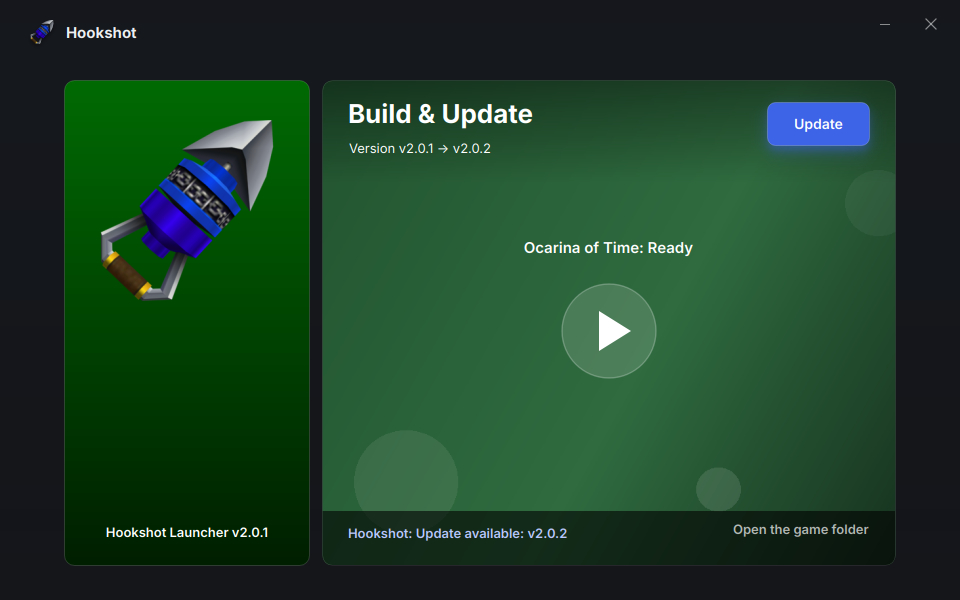
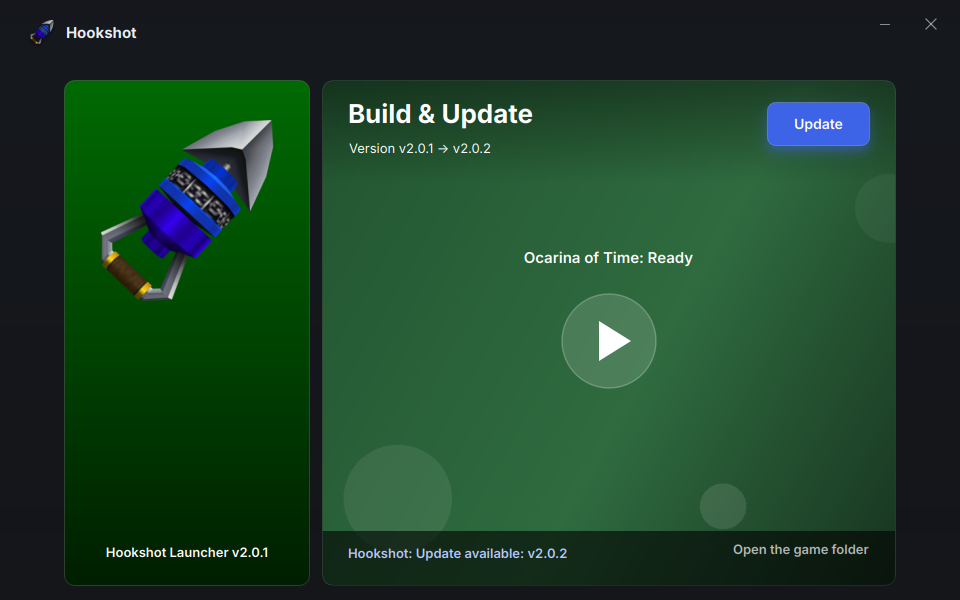
fix(builder): the launch page takes the whole width back, and fresh screenshots of the merged builder
The chrome shrinks the body to make room for its rail; the launch page draws a rail of its own, so inside the shrunk body it
was squeezed and the status line clipped at "Update available: v". show_page now gives the body its full width whenever the
chrome stands down. Screenshots of every page, re-rendered from the merged tree; the Linux launcher ones are live runs of the
merged Tk builder with its own Python.

diff --git a/builder/py/hookshot_builder/window.py b/builder/py/hookshot_builder/window.py
@@ -683,6 +683,7 @@ class Window(QWidget):
                                      "Hookshot Builder")
 
         body = QWidget(self.main)
+        self.body_frame = body
         body.setGeometry(20 + 240 + 16, 64 + 16, 960 - (20 + 240 + 16) - 20, 600 - (64 + 16) - 14)   # (its last 46px ride the strip)
         self.pages = QStackedLayout(body)
         self.files_page = self._files_page()
@@ -974,9 +975,13 @@ class Window(QWidget):
 
     def show_page(self, page):
         self.pages.setCurrentWidget(page)
-        chrome_on = page is not self.launch_page   # (the launch page draws its own rail and strip, as the mockup draws them)
-        self.chrome_strip.setVisible(chrome_on)
+        chrome_on = page is not self.launch_page   # (the launch page draws its own rail and strip, as the mockup draws them: for
+        self.chrome_strip.setVisible(chrome_on)    #  it the body takes the whole width back, or the page would squeeze inside)
         self.chrome_rail.setVisible(chrome_on)
+        if chrome_on:
+            self.body_frame.setGeometry(20 + 240 + 16, 80, 960 - (20 + 240 + 16) - 20, 600 - 80 - 14)
+        else:
+            self.body_frame.setGeometry(64, 80, 960 - 128, 600 - 80 - 14)
 
     def set_step(self, on):
         self.step_pill.set(on)

diff --git a/builder/linux/hookshot_builder.py b/builder/linux/hookshot_builder.py
@@ -890,9 +890,15 @@ class Builder(tk.Tk):
         rail_w, h = px(250), px(560)
         rail = tk.Canvas(parent, width=rail_w, height=h, background=GREEN_TOP, highlightthickness=0, borderwidth=0)
         gradient(rail, rail_w, h, GREEN_TOP, GREEN_BOT)
-        self.rail_art = self.logo(px(190), over=mix(GREEN_TOP, GREEN_BOT, 150.0 / 560))
-        if self.rail_art is not None:
-            rail.create_image(rail_w // 2, px(150), image=self.rail_art)
+        try:
+            art = tk.PhotoImage(master=self, file=os.path.join(ROOT, "assets", "hookshot.png"))
+            step = max(1, round(art.width() / px(190)))
+            self.rail_art = art.subsample(step, step) if step > 1 else art   # (Tk 9 averages subsample with the alpha, so the
+            rail.create_image(rail_w // 2, px(150), image=self.rail_art)      #  art lays over the rail's bands, no patch)
+        except (tk.TclError, OSError):
+            self.rail_art = self.logo(px(190), over=mix(GREEN_TOP, GREEN_BOT, 1 - 150.0 / 560))   # (an older Tk: the flattened copy)
+            if self.rail_art is not None:
+                rail.create_image(rail_w // 2, px(150), image=self.rail_art)
         return rail, rail_w
 
     def show_launch(self, folder):
